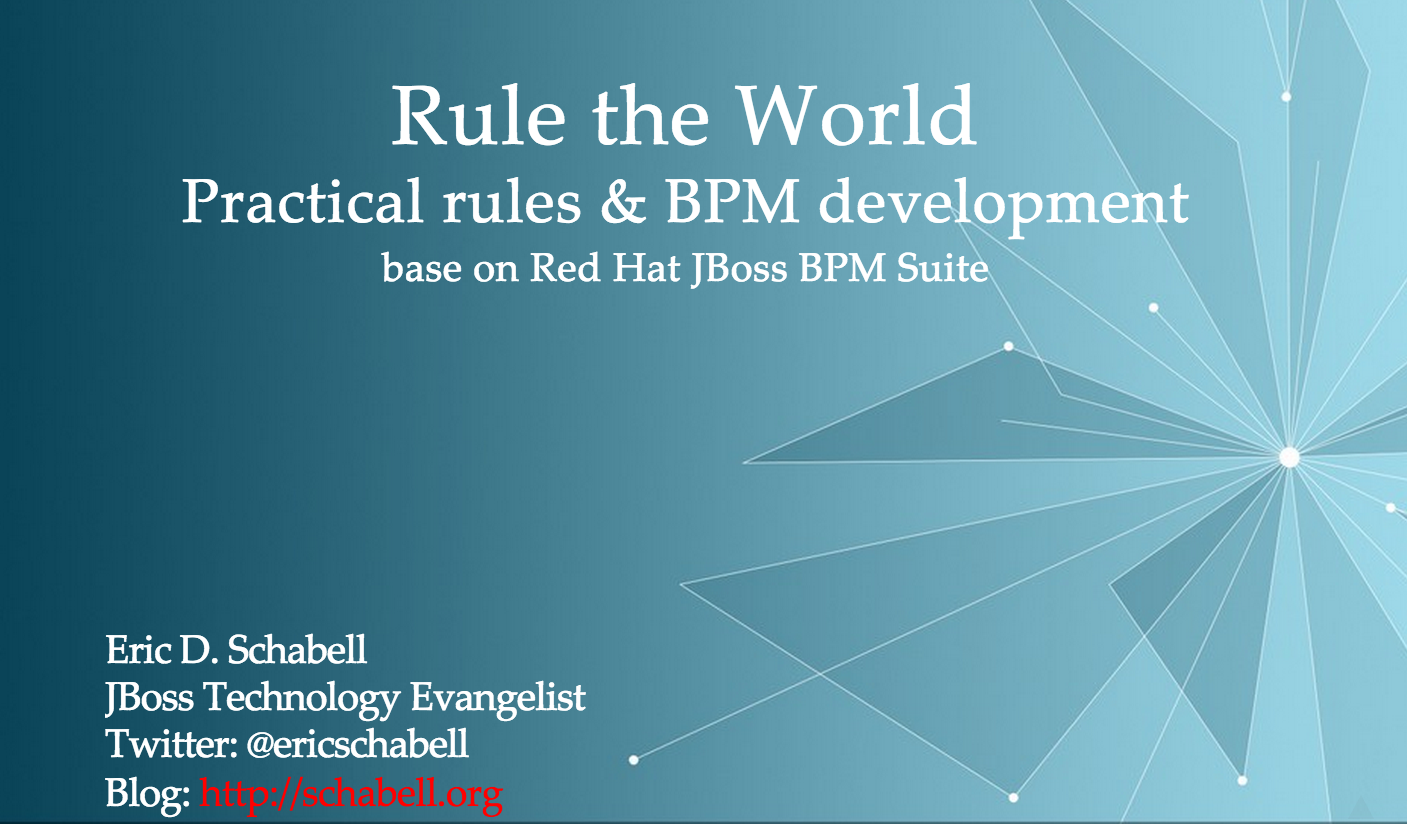
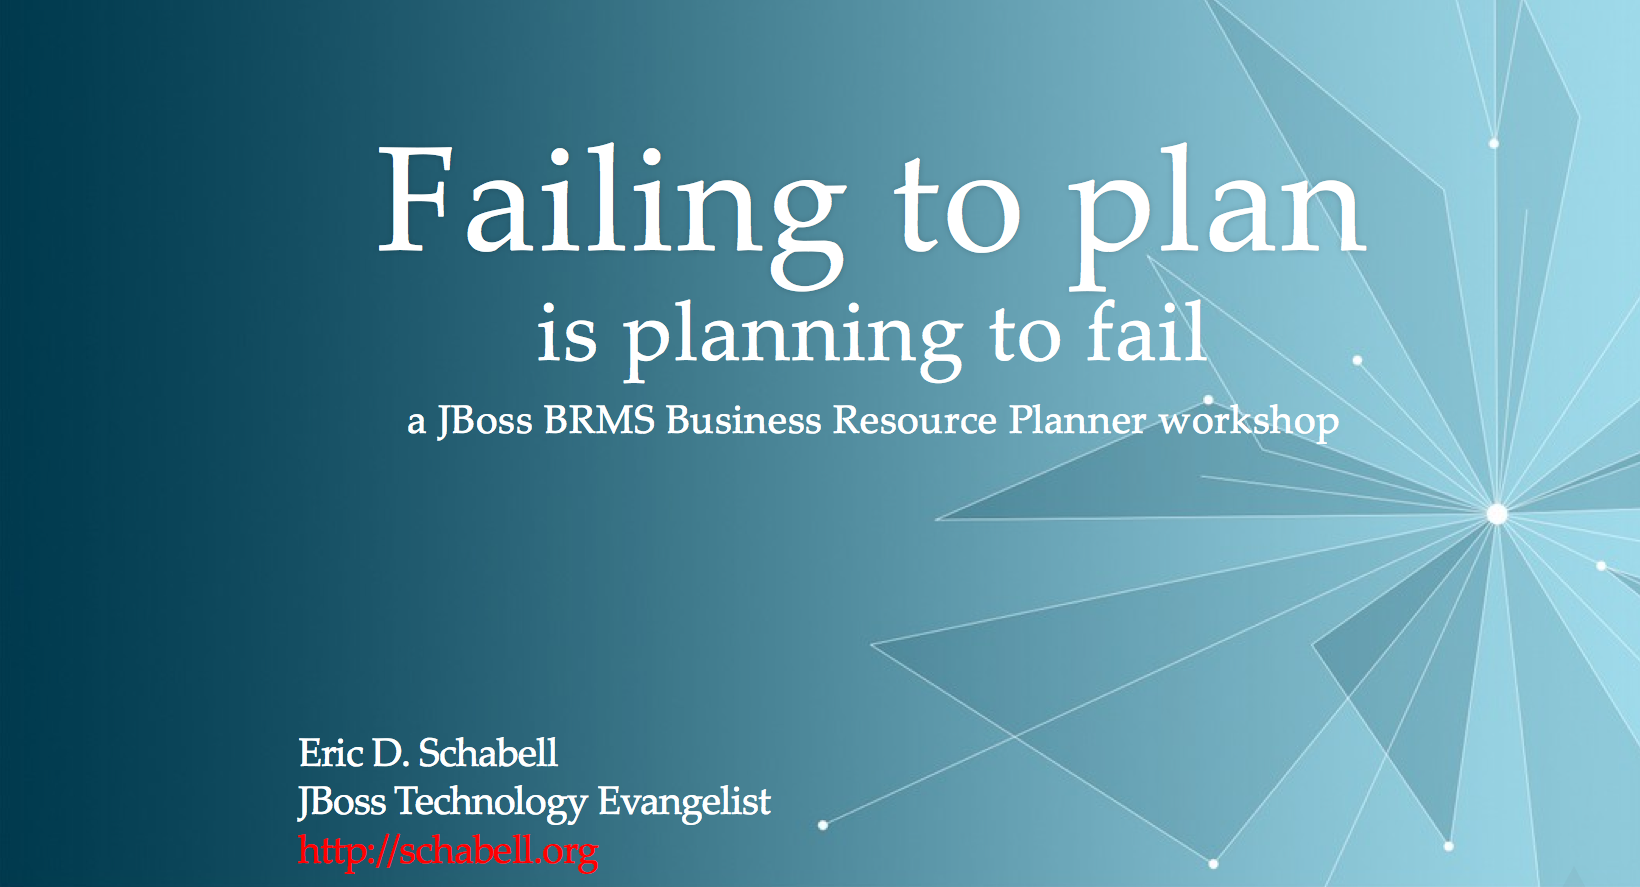
Updated for planner workshop.

diff --git a/README.md b/README.md
@@ -1,15 +1,10 @@
-![Cover Slide](https://raw.githubusercontent.com/eschabell/presentation-bpmsuite-rewards-workshop/master/cover.png)
+![Cover Slide](https://raw.githubusercontent.com/eschabell/presentation-planner-workshop/master/cover.png)
 
 Option 1 - Install on your machine
 ----------------------------------
-1. [Download and unzip.](https://github.com/eschabell/presentation-bpmworkshop/archive/master.zip)
+1. [Download and unzip.](https://github.com/eschabell/presentation-planner-workshop/archive/master.zip)
 
-2. Open in browser, `file:///<path-to-project>/presentation-bpmsuiteworkshop/index.html`
+2. Open in browser, `file:///<path-to-project>/presentation-planner-workshop/index.html`
 
 3. Enjoy the workshop! 
 
-
-Option 2 - Install with one click in xPaaS (bpmPaaS)
-----------------------------------------------------
-[![Click to install OpenShift](http://launch-shifter.rhcloud.com/launch/light/Click to
-install.svg)](https://openshift.redhat.com/app/console/application_type/custom?&cartridges[]=php-5.4&initial_git_url=https://github.com/eschabell/openshift-bpmsuite-workshop.git&name=bpmworkshop)
